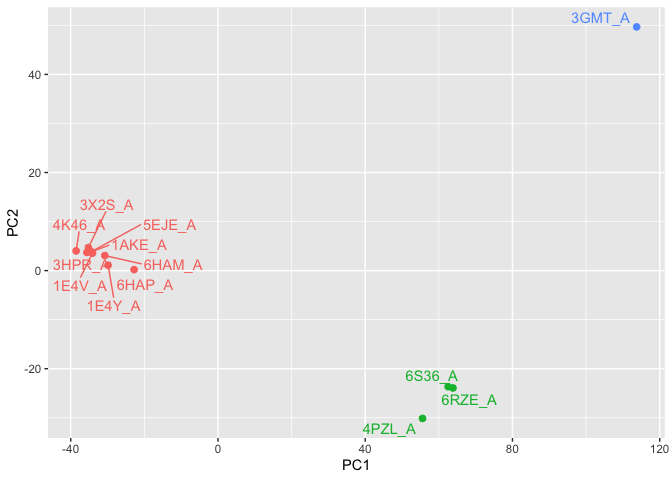
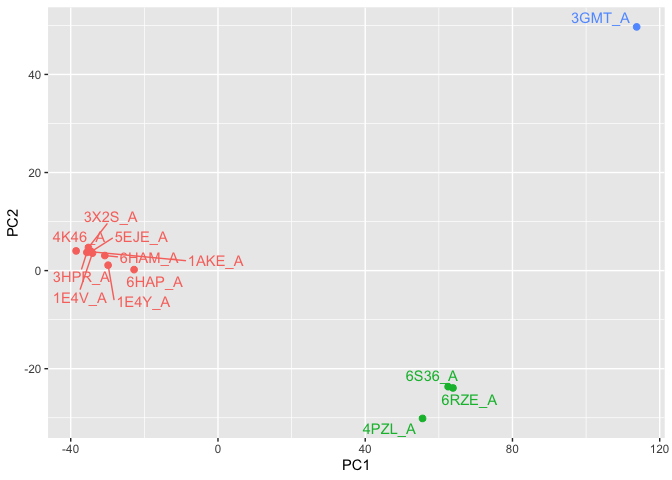
convert

Changed region(s): [[0.0625, 0.4062, 0.375, 0.6562], [0.7188, 0.8125, 0.75, 0.8438]]

diff --git a/Week10/Lab10.md b/Week10/Lab10.md
@@ -254,7 +254,7 @@ adk
 m <- nma(adk)
 ```
 
-     Building Hessian...        Done in 0.014 seconds.
+     Building Hessian...        Done in 0.009 seconds.
      Diagonalizing Hessian...   Done in 0.168 seconds.
 
 ``` r
@@ -532,7 +532,7 @@ anno
     4PZL_A       2.10             <NA>                      Adenylate kinase (ADK)
                    ligandId
     1AKE_A              AP5
-    6S36_A CL (3),NA,MG (2)
+    6S36_A MG (2),NA,CL (3)
     6RZE_A    NA (3),CL (2)
     3HPR_A              AP5
     1E4V_A              AP5
@@ -541,12 +541,12 @@ anno
     3X2S_A   JPY (2),AP5,MG
     6HAP_A              AP5
     6HAM_A              AP5
-    4K46_A      ADP,AMP,PO4
+    4K46_A      ADP,PO4,AMP
     3GMT_A          SO4 (2)
-    4PZL_A       CA,FMT,GOL
+    4PZL_A       GOL,FMT,CA
                                                                                  ligandName
     1AKE_A                                                 BIS(ADENOSINE)-5'-PENTAPHOSPHATE
-    6S36_A                                    CHLORIDE ION (3),SODIUM ION,MAGNESIUM ION (2)
+    6S36_A                                    MAGNESIUM ION (2),SODIUM ION,CHLORIDE ION (3)
     6RZE_A                                                  SODIUM ION (3),CHLORIDE ION (2)
     3HPR_A                                                 BIS(ADENOSINE)-5'-PENTAPHOSPHATE
     1E4V_A                                                 BIS(ADENOSINE)-5'-PENTAPHOSPHATE
@@ -555,9 +555,9 @@ anno
     3X2S_A N-(pyren-1-ylmethyl)acetamide (2),BIS(ADENOSINE)-5'-PENTAPHOSPHATE,MAGNESIUM ION
     6HAP_A                                                 BIS(ADENOSINE)-5'-PENTAPHOSPHATE
     6HAM_A                                                 BIS(ADENOSINE)-5'-PENTAPHOSPHATE
-    4K46_A                   ADENOSINE-5'-DIPHOSPHATE,ADENOSINE MONOPHOSPHATE,PHOSPHATE ION
+    4K46_A                   ADENOSINE-5'-DIPHOSPHATE,PHOSPHATE ION,ADENOSINE MONOPHOSPHATE
     3GMT_A                                                                  SULFATE ION (2)
-    4PZL_A                                                 CALCIUM ION,FORMIC ACID,GLYCEROL
+    4PZL_A                                                 GLYCEROL,FORMIC ACID,CALCIUM ION
                                                      source
     1AKE_A                                 Escherichia coli
     6S36_A                                 Escherichia coli
